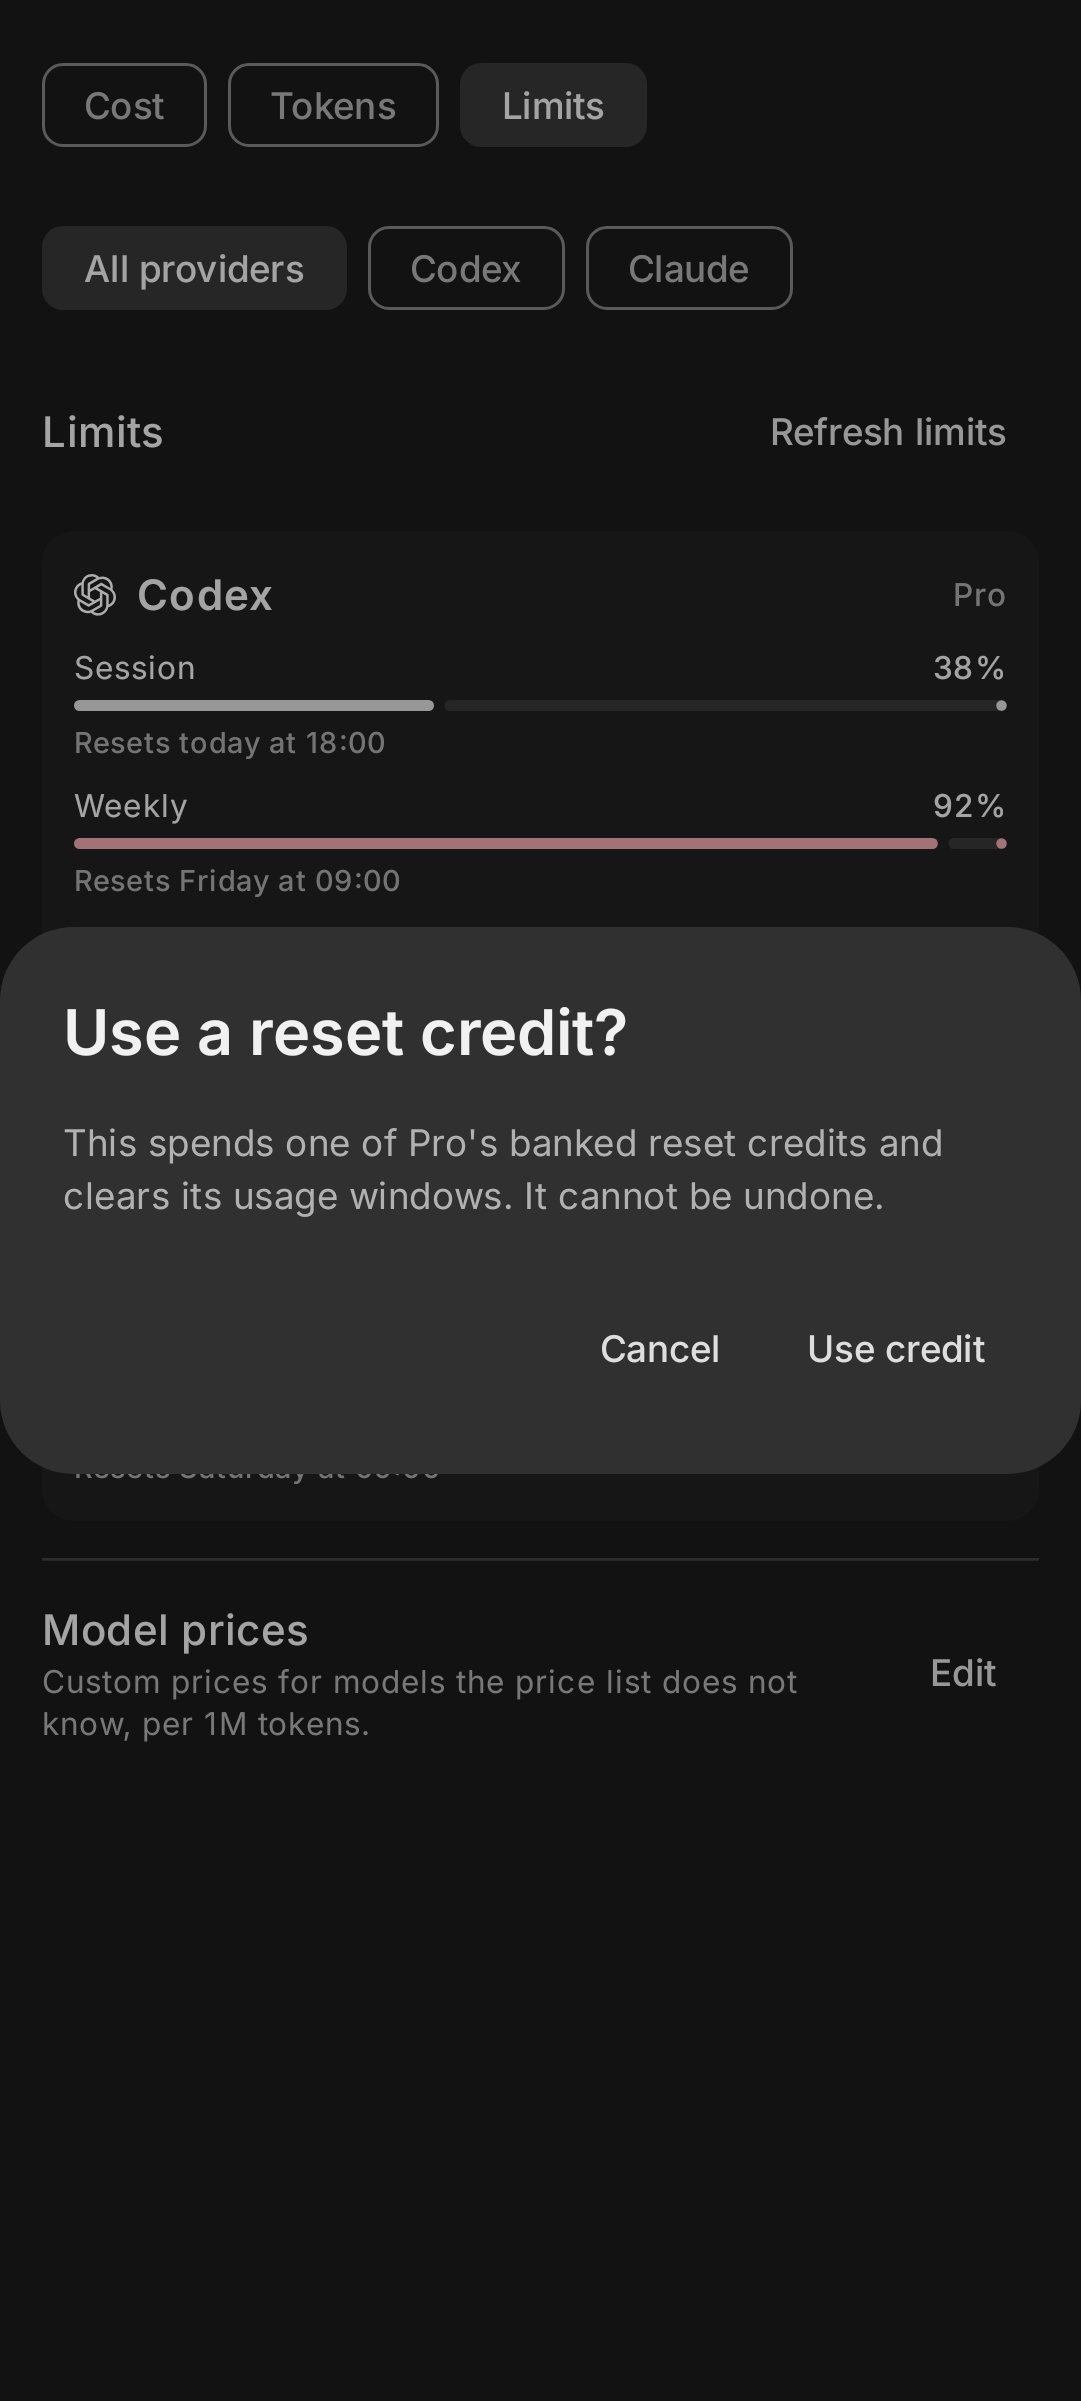
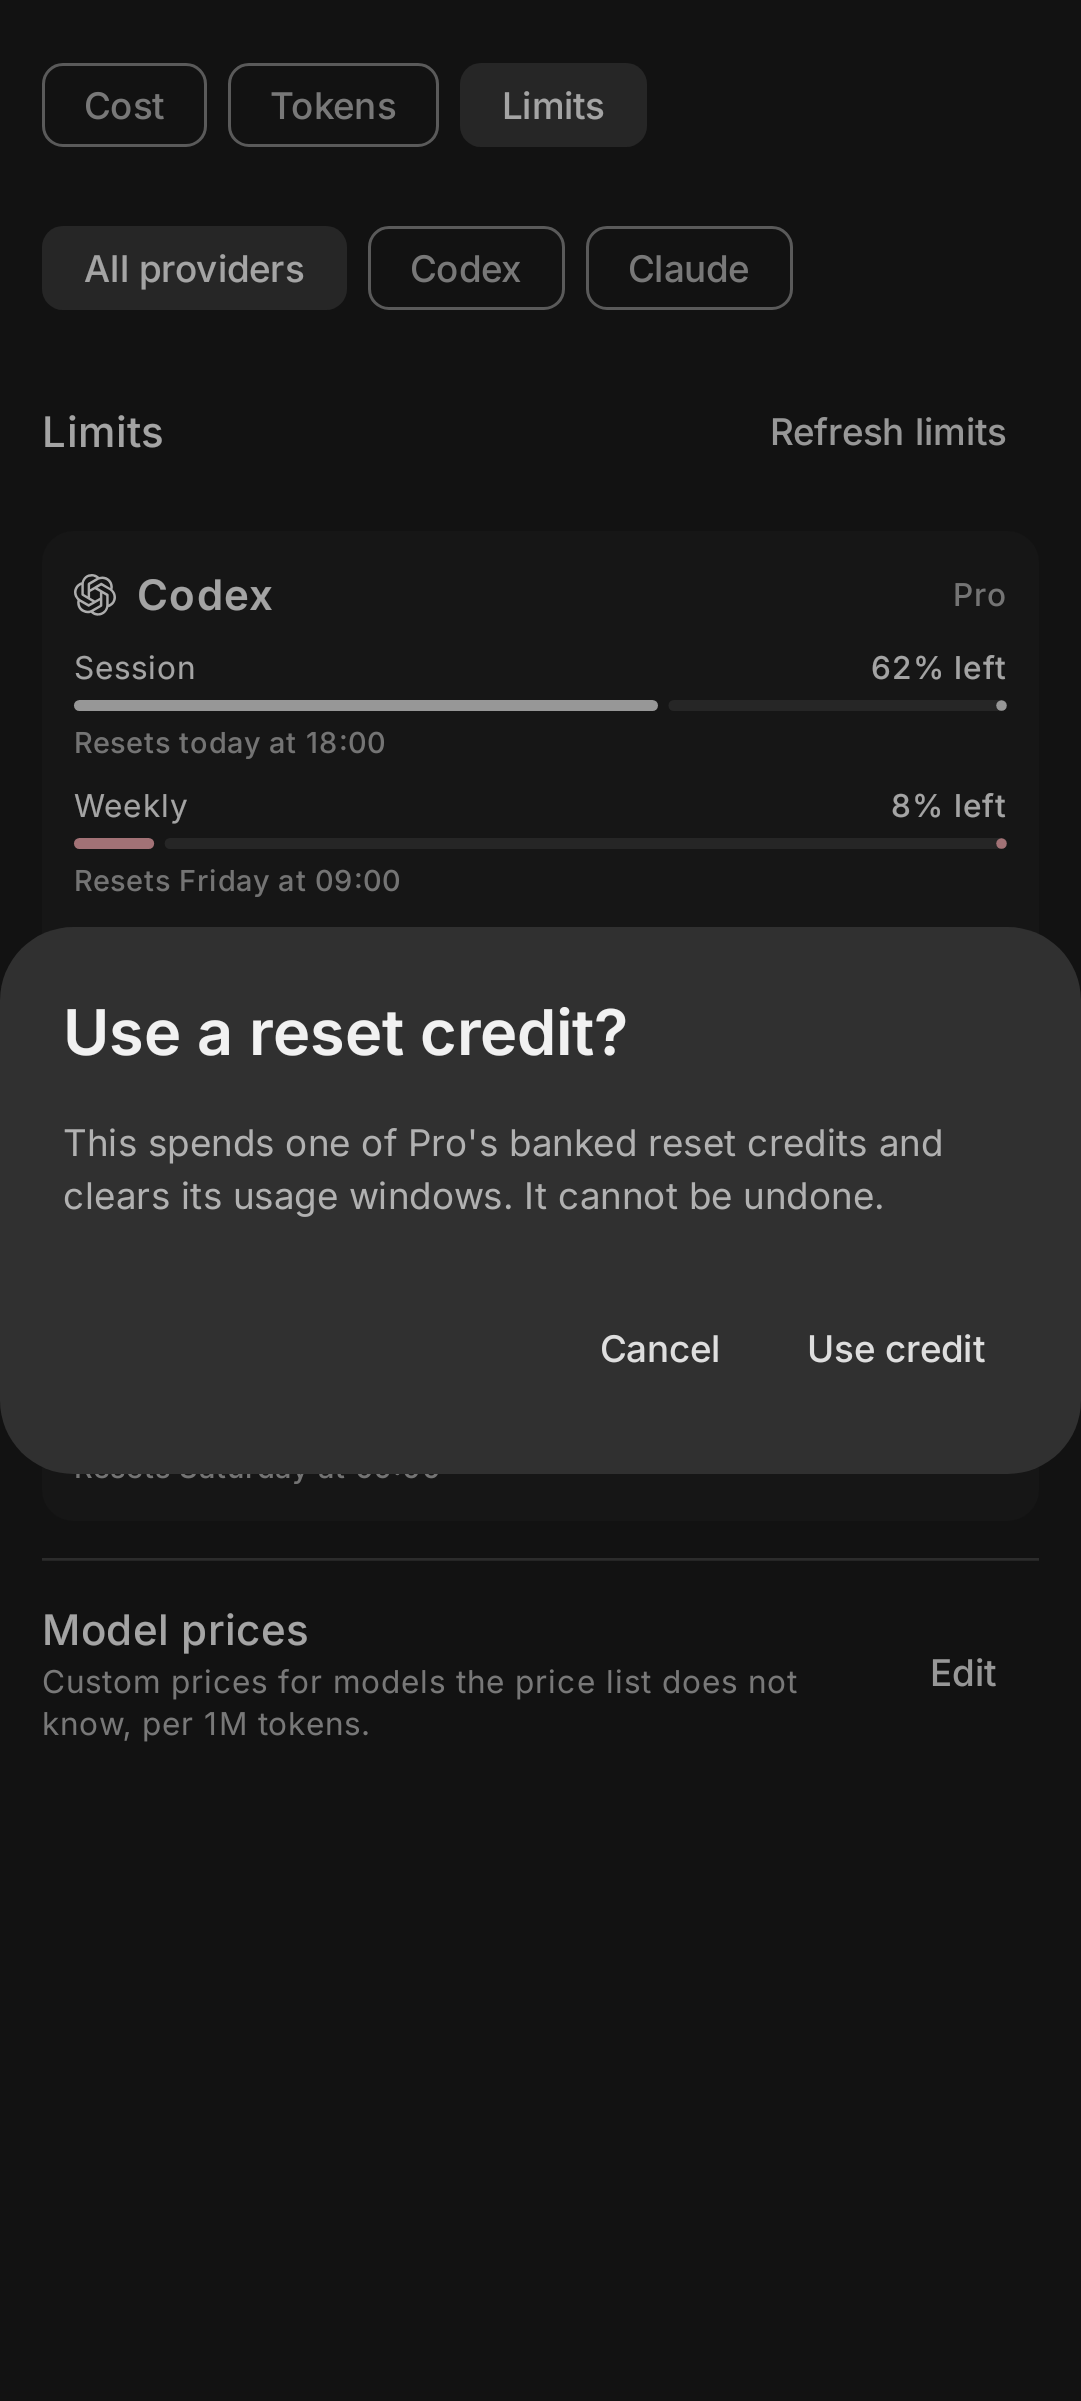
fix(mobile): show remaining usage limits

Changed region(s): [[0.1526, 0.3124, 0.9158, 0.3748], [0.3969, 0.2811, 0.6105, 0.3124], [0.8548, 0.2499, 0.9158, 0.2811]]

diff --git a/mobile/androidApp/src/main/kotlin/com/restartfu/xd/mobile/ui/UsageScreen.kt b/mobile/androidApp/src/main/kotlin/com/restartfu/xd/mobile/ui/UsageScreen.kt
@@ -58,6 +58,7 @@ import com.restartfu.xd.protocol.UsageBucketReply
 import com.restartfu.xd.protocol.UsagePriceReply
 import com.restartfu.xd.protocol.UsageSummaryReply
 import java.util.Locale
+import kotlin.math.roundToInt
 import kotlinx.coroutines.CancellationException
 import kotlinx.coroutines.launch
 
@@ -333,13 +334,14 @@ private fun LimitsCard(account: UsageAccountReply, resetting: Boolean, unsettled
             )
         }
         account.windows.forEach { window ->
+            val remaining = (100.0 - window.usedPercent.coerceIn(0.0, 100.0)).roundToInt()
             Column(verticalArrangement = Arrangement.spacedBy(4.dp)) {
                 Row {
                     Text(window.label, modifier = Modifier.weight(1f), style = MaterialTheme.typography.bodySmall)
-                    Text("${window.usedPercent.coerceIn(0.0, 100.0).toInt()}%", style = MaterialTheme.typography.labelMedium)
+                    Text("$remaining% left", style = MaterialTheme.typography.labelMedium)
                 }
                 LinearProgressIndicator(
-                    progress = { (window.usedPercent / 100.0).coerceIn(0.0, 1.0).toFloat() },
+                    progress = { remaining / 100f },
                     modifier = Modifier.fillMaxWidth(),
                     color = if (window.usedPercent >= 90) MaterialTheme.colorScheme.error else MaterialTheme.colorScheme.primary,
                 )

diff --git a/mobile/androidApp/src/test/kotlin/com/restartfu/xd/mobile/ui/UsageScreenshotTest.kt b/mobile/androidApp/src/test/kotlin/com/restartfu/xd/mobile/ui/UsageScreenshotTest.kt
@@ -82,6 +82,17 @@ class UsageScreenshotTest {
                 )),
             ))
         settle()
+        compose.onNodeWithText("62% left").assertIsDisplayed()
+        compose.onNodeWithText("8% left").assertIsDisplayed()
+        // The accessible progress must describe remaining quota too, not just its label.
+        compose.onNode(androidx.compose.ui.test.SemanticsMatcher.expectValue(
+            androidx.compose.ui.semantics.SemanticsProperties.ProgressBarRangeInfo,
+            androidx.compose.ui.semantics.ProgressBarRangeInfo(0.62f, 0f..1f),
+        )).assertIsDisplayed()
+        compose.onNode(androidx.compose.ui.test.SemanticsMatcher.expectValue(
+            androidx.compose.ui.semantics.SemanticsProperties.ProgressBarRangeInfo,
+            androidx.compose.ui.semantics.ProgressBarRangeInfo(0.08f, 0f..1f),
+        )).assertIsDisplayed()
         capture("overview")
         compose.onNodeWithText("Cost").performClick()
         settle()
